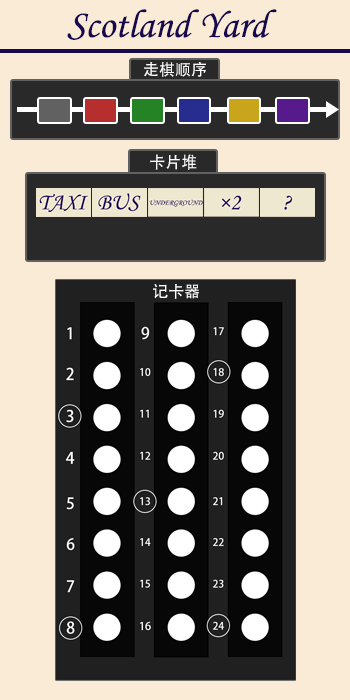
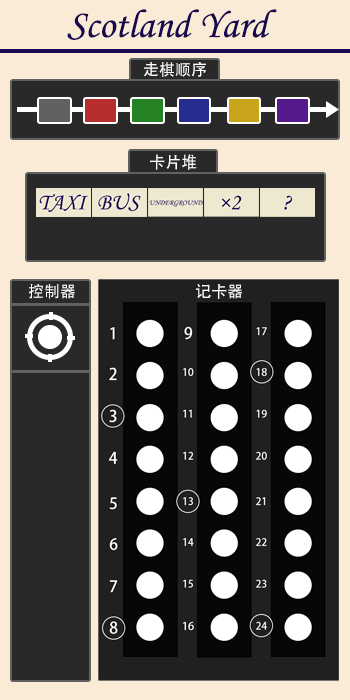
增加了棋子追踪按钮

diff --git a/client/idx.js b/client/idx.js
@@ -37,6 +37,7 @@ touchData.time0 = 0, touchData.time1 = 0, touchData.cnt = 1;
 touchData.startTowSpot = true;
 touchData.dist = 0;
 
+
 if (/ipad|iphone|midp|rv:1.2.3.4|ucweb|android|windows ce|windows mobile/.test(touchData.sUserAgent)) {
     console.log("phone");
     window.ontouchstart = function (e) {
@@ -44,6 +45,9 @@ if (/ipad|iphone|midp|rv:1.2.3.4|ucweb|android|windows ce|windows mobile/.test(t
         touchdown(e.pageX, e.pageY);
     }
     window.addEventListener("touchmove", function (e) {
+        if(uiCtlCanMoveMap()){
+            return;
+        }
         if (game.isGameStart()) {
             e.preventDefault();
         }
@@ -71,9 +75,12 @@ if (/ipad|iphone|midp|rv:1.2.3.4|ucweb|android|windows ce|windows mobile/.test(t
     }, { passive: false });
 
     window.addEventListener("touchend", function (e) {
-        if (game.isGameStart()) {
-            e.preventDefault();
-        }
+        // if(uiCtlCanMoveMap()){
+        //     return;
+        // }
+        // if (game.isGameStart()) {
+        //     e.preventDefault();
+        // }
 
         if (touchData.startTowSpot) {
             var ee = e.changedTouches[0];

diff --git a/client/idx.css b/client/idx.css
@@ -9,9 +9,9 @@ body {
 
     position: absolute;
 
-    margin-top: 10px;
+    margin-top: 5px;
 
-    margin-left: 10px;
+    margin-left: 2px;
 }
 
 #canvas_ui {
@@ -21,7 +21,7 @@ body {
 
     position: absolute;
 
-    margin-top: 10px;
+    margin-top: 5px;
 
     margin-left: 1210px;
 
@@ -228,7 +228,7 @@ body {
 .Menu_Start_Ctl_Btn {
     margin-top: 10px;
 
-    width: 120px;
+    width: 130px;
     height: 40px;
 
     background-color: rgb(67, 65, 65);
@@ -328,7 +328,7 @@ body {
 #FlowCtl {
     position: fixed;
 
-    background-color: aliceblue;
+    background-color: rgb(239, 233, 218);
 
     left: 20px;
     top: 20px;
@@ -336,7 +336,12 @@ body {
     width: 80px;
     height: 80px;
 
-    border-radius: 5px;
+    border-style: solid;
+    border-radius: 2px;
+    border-right: 4px;
+    border-color: rgb(131, 126, 115);
+
+    visibility: hidden;
 
     z-index: 2;
 }

diff --git a/client/UICtl.js b/client/UICtl.js
@@ -7,6 +7,8 @@ import { game } from "./Game.js";
 import Sprite from "./Sprite.js";
 import Vec2 from "./Vec2.js";
 
+import { mapLocateNowChessOn } from "./GameMap.js";
+
 export function initUI() {
     var bk = new Sprite("src/play_ui.png");
     sprites_ui.set("play_ui", bk);
@@ -46,7 +48,7 @@ export function uiUpdate() {
             var kx = parseInt(i / 8);
             var ky = parseInt(i % 8);
 
-            var x = kx * 73 + 80;
+            var x = kx * 73 + 124;
             var y = ky * 42 + 320;
 
             e.pos.set(x, y);
@@ -70,6 +72,12 @@ export function updateUIOnMouseUp(p) {
             if (inside(pos, lrp, 55, 30)) {
                 game.setCardSelect(i);
             }
+        }
+
+        var lrp = new Vec2();
+        lrp.set(17, 310);
+        if (inside(pos, lrp, 80, 80)) {
+            mapLocateNowChessOn();
         }
     }
 }

diff --git a/client/GameMap.js b/client/GameMap.js
@@ -173,3 +173,25 @@ export function dragMoveMapOnMove(p) {
         }
     }
 }
+
+//地图定位现在的棋子
+export function mapLocateNowChessOn() {
+    function locate() {
+        var p0 = mapSpriteData.mapPos.copy();
+        var p1 = players[game.gameData.chessStepOn].pos.copy();
+
+        var p2 = p0.add(p1.negtive());
+        p2.x += 600;
+        p2.y += 350;
+        mapSpriteData.mapPos.set_p(p2);
+    }
+    //控制的是小偷，那随意定位，如果不是小偷，则不能定位小偷
+    if (game.gameData.selfChessCtl.includes(1)) {
+        locate();
+    } else {
+        //现在不是1号（小偷）下棋，这样就不会定位到1号点
+        if (game.gameData.chessStepOn != 1) {
+            locate();
+        }
+    }
+}

diff --git a/client/MenuUI.js b/client/MenuUI.js
@@ -92,7 +92,7 @@ document.getElementById("Start_Close").onclick = function () {
 //用来防止游戏开始后页面位置改变
 //但在游戏状态下界面被禁止拖动的情况
 var uiCanMoveMap = true;
-ele_flowCtl.onclick = function () {
+document.getElementById("FlowCtl").onclick = function () {
     if (uiCanMoveMap) {
         uiCanMoveMap = false;
     } else {
@@ -208,6 +208,7 @@ export function closeUI() {
     ele_menu.style.visibility = "hidden";
     ele_help.style.visibility = "hidden";
     ele_start.style.visibility = "hidden";
+    ele_flowCtl.style.visibility = "visible";
 }
 
 function onMenuStart() {

diff --git a/client/Web.js b/client/Web.js
@@ -2,7 +2,6 @@
 import {
     game
 } from "./Game.js";
-import { touchStartPos } from "./idx.js";
 
 import { resetUI, closeUI, updateMenuStatue, btnCtlSuccess } from "./MenuUI.js";
  
@@ -23,7 +22,7 @@ class Web {
 
     webUpdate() {
         if (!this.connected && !this.onopen) {
-            this.ws = new WebSocket("ws://127.0.0.1:23480");
+            this.ws = new WebSocket("ws://192.168.1.109:23480");
             this.onopen = true;
 
             var that = this;

diff --git a/client/index.html b/client/index.html
@@ -13,9 +13,6 @@
 <body>
     <div style="text-align: left;">
         <div id="FlowCtl">
-            <!-- <div>
-                123123213213
-            </div> -->
         </div>
 
         <canvas id="canvas" width="1200px" height="700px"></canvas>
